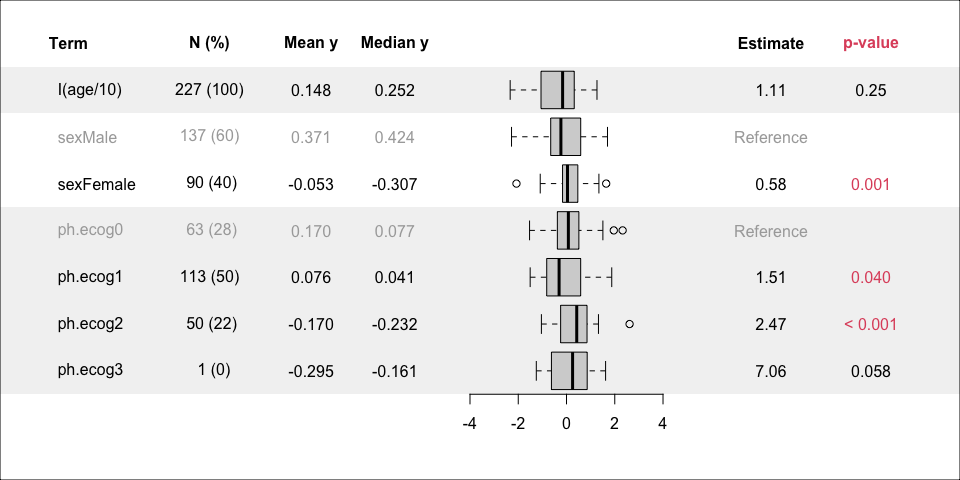
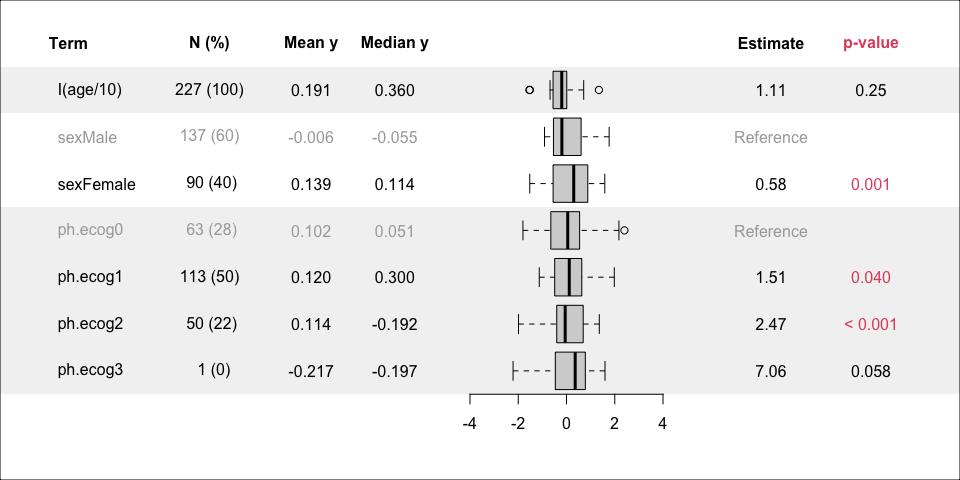
add links to readme

diff --git a/README.md b/README.md
@@ -13,15 +13,15 @@ devtools::install_github('raredd/forest')
 
 ## Basic usage and supported models/objects
 
-| object               | package      |
-| :------------------- | :----------- |
-| <code>coxph</code>   | **survival** |
-| <code>coxphf</code>  | **coxphf**   |
-| <code>crr</code>     | **cmprsk**   |
-| <code>crr2</code>    | **cmprsk2**  |
-| <code>formula</code> | **stats**    |
-| <code>glm</code>     | **stats**    |
-| <code>logistf</code> | **logistf**  |
+| object               | package                                                          |
+| :------------------- | :--------------------------------------------------------------- |
+| <code>coxph</code>   | **[survival](https://cran.r-project.org/web/packages/survival)** |
+| <code>coxphf</code>  | **[coxphf](https://cran.r-project.org/web/packages/coxphf)**     |
+| <code>crr</code>     | **[cmprsk](https://cran.r-project.org/web/packages/cmprsk)**     |
+| <code>crr2</code>    | **[cmprsk2](https://github.com/raredd/cmprsk2)**                 |
+| <code>formula</code> | **stats**                                                        |
+| <code>glm</code>     | **stats**                                                        |
+| <code>logistf</code> | **[logistf](https://cran.r-project.org/web/packages/logistf)**   |
 
 ``` r
 library('survival')
@@ -90,6 +90,7 @@ box('outer')
 ## Panel options
 
 ``` r
+set.seed(1)
 x <- forest(
   coxph(Surv(time, status) ~ I(age / 10) + sex + ph.ecog, lung2),
   plot = FALSE
@@ -138,7 +139,7 @@ box('outer')
 ## Session info
 
 ``` r
-within.list(sessionInfo(), loaded <- NULL)
+within.list(sessionInfo(), loadedOnly <- NULL)
 ```
 
     ## R version 4.0.2 (2020-06-22)
@@ -157,10 +158,3 @@ within.list(sessionInfo(), loaded <- NULL)
     ## 
     ## other attached packages:
     ## [1] rawr_0.9.2        survival_3.2-7    knitr_1.31        forest_0.0.0.9000
-    ## 
-    ## loaded via a namespace (and not attached):
-    ##  [1] lattice_0.20-41   digest_0.6.27     grid_4.0.2        magrittr_2.0.1   
-    ##  [5] evaluate_0.14     highr_0.8         rlang_0.4.10      stringi_1.5.3    
-    ##  [9] Matrix_1.3-2      rmarkdown_2.6     splines_4.0.2     tools_4.0.2      
-    ## [13] stringr_1.4.0     xfun_0.20         yaml_2.2.1        compiler_4.0.2   
-    ## [17] htmltools_0.5.1.1
